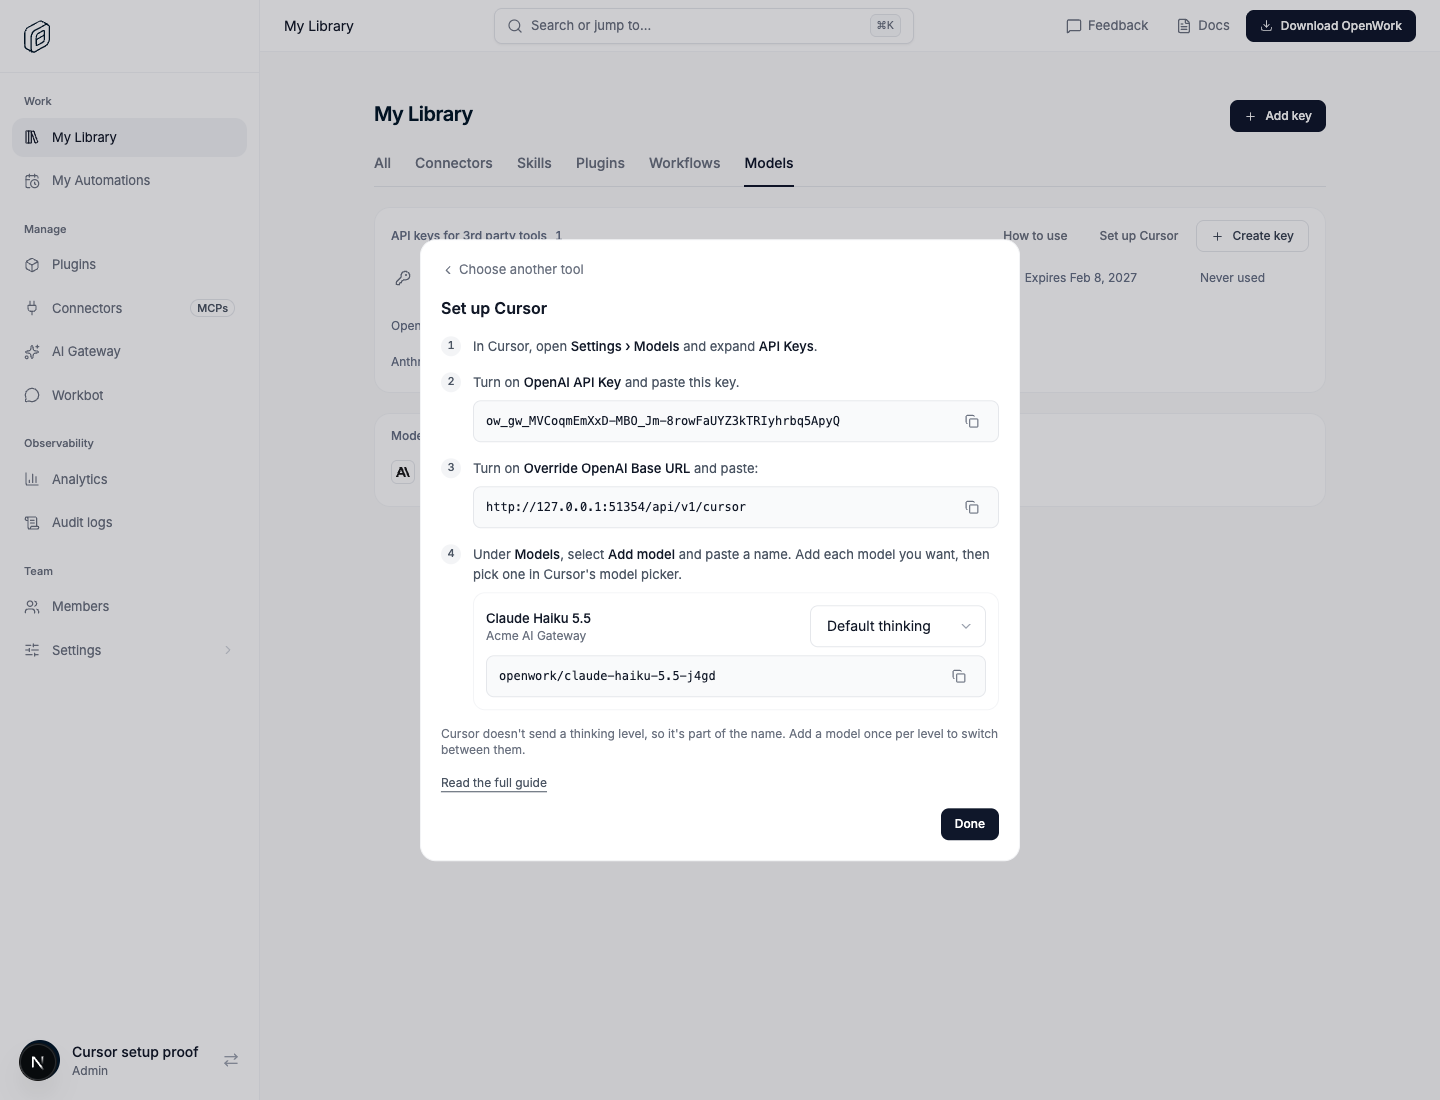
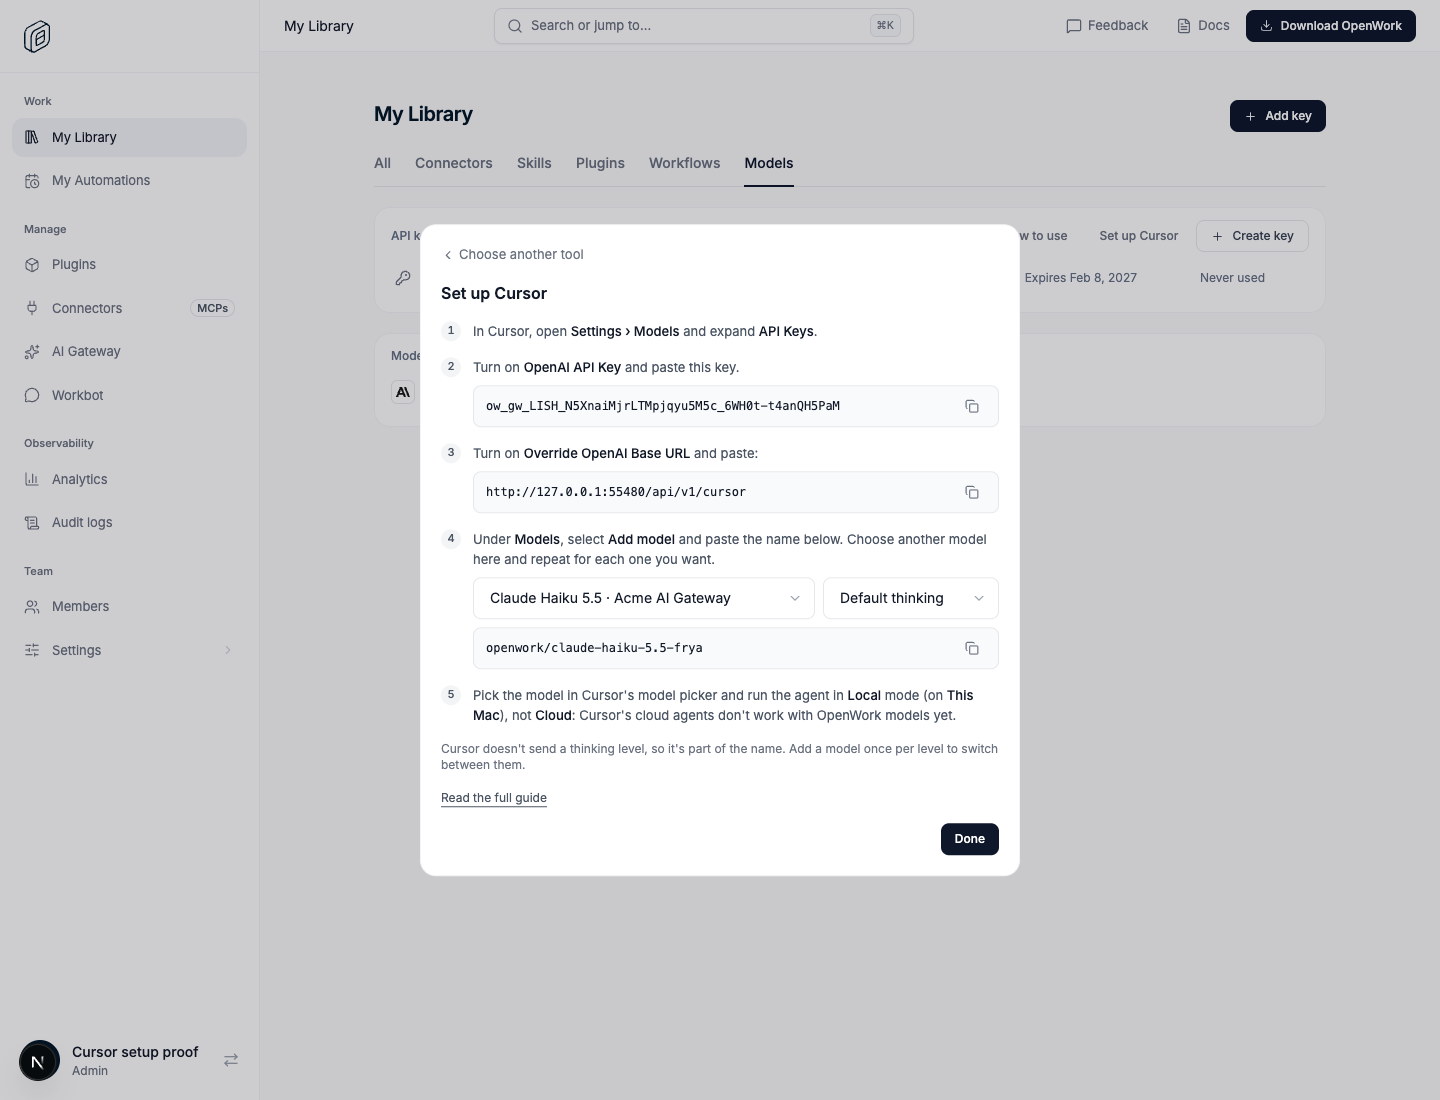
feat(den): pick a model from a dropdown in the tool steps; tell Cursor users to run locally
- Cursor and Another tool steps show one model dropdown (plus thinking level
  for Cursor) instead of a list of every model; the value to copy follows it.
- Cursor's steps and docs say to run the agent in Local mode (This Mac):
  Cursor's cloud agents don't work with OpenWork models yet.

Changed region(s): [[0.2812, 0.1855, 0.7188, 0.7418], [0.2812, 0.7109, 0.7188, 0.8036]]

diff --git a/ee/apps/den-web/app/(den)/dashboard/_components/gateway-tool-setup.tsx b/ee/apps/den-web/app/(den)/dashboard/_components/gateway-tool-setup.tsx
@@ -134,29 +134,34 @@ function ModelsState({ loading, error, empty }: { loading: boolean; error: Error
   return null;
 }
 
-/** One model with its Cursor name to copy, and a thinking level when the model has levels. */
-function CursorModelRow({ model }: { model: GatewayToolModel }) {
+/** Choose a model (and its thinking level, when it has levels); the name to copy follows the choice. */
+function CursorModelPicker({ models }: { models: readonly GatewayToolModel[] }) {
+  const [selected, setSelected] = useState<string | null>(null);
   const [thinking, setThinking] = useState<AutoRouterThinkingLevel>("default");
-  const name = cursorModelName({ name: model.name, modelId: model.modelId, thinking });
+  const model = models.find((entry) => entry.modelId === selected) ?? models[0] ?? null;
+  if (!model) return null;
+  const level = model.thinkingLevels.includes(thinking) ? thinking : "default";
+  const name = cursorModelName({ name: model.name, modelId: model.modelId, thinking: level });
   return (
-    <div className="flex flex-col gap-2 py-3 first:pt-0 last:pb-0" data-cursor-model={model.name}>
-      <div className="flex min-w-0 items-center justify-between gap-3">
-        <span className="min-w-0">
-          <span className="block truncate text-[13px] font-medium leading-5 text-gray-900">{model.name}</span>
-          <span className="block truncate text-[12px] leading-4 text-gray-500">{model.providerName}</span>
+    <div className="flex flex-col gap-2" data-cursor-model={model.name}>
+      <div className="flex flex-col gap-2 sm:flex-row">
+        <span className="min-w-0 flex-1">
+          <DenSelect value={model.modelId} aria-label="Model" onChange={(event) => setSelected(event.target.value)}>
+            {models.map((entry) => <option key={entry.modelId} value={entry.modelId}>{`${entry.name} · ${entry.providerName}`}</option>)}
+          </DenSelect>
         </span>
         {model.thinkingLevels.length > 1 ? (
-          <span className="w-44 shrink-0">
+          <span className="sm:w-44">
             <DenSelect
-              value={thinking}
-              aria-label={`Thinking level for ${model.name}`}
+              value={level}
+              aria-label="Thinking level"
               onChange={(event) => {
-                const level = autoRouterThinkingLevelSchema.safeParse(event.target.value);
-                if (level.success) setThinking(level.data);
+                const next = autoRouterThinkingLevelSchema.safeParse(event.target.value);
+                if (next.success) setThinking(next.data);
               }}
             >
-              {model.thinkingLevels.map((level) => (
-                <option key={level} value={level}>{level === "default" ? "Default thinking" : `${AUTO_ROUTER_THINKING_LABELS[level]} thinking`}</option>
+              {model.thinkingLevels.map((entry) => (
+                <option key={entry} value={entry}>{entry === "default" ? "Default thinking" : `${AUTO_ROUTER_THINKING_LABELS[entry]} thinking`}</option>
               ))}
             </DenSelect>
           </span>
@@ -185,13 +190,16 @@ export function CursorSteps({ apiKey, baseUrl, keyStep }: { apiKey: string | nul
         <SetupStep
           number={4}
           field={(
-            <div className="flex flex-col divide-y divide-gray-100 rounded-xl border border-gray-100 px-3 py-3" data-testid="cursor-setup-models">
+            <div className="flex flex-col gap-2" data-testid="cursor-setup-models">
               <ModelsState loading={models.isLoading} error={models.error} empty={models.data && list.length === 0 ? "Your organization hasn't given you any models yet." : null} />
-              {list.map((model) => <CursorModelRow key={model.modelId} model={model} />)}
+              <CursorModelPicker models={list} />
             </div>
           )}
         >
-          Under <Strong>Models</Strong>, select <Strong>Add model</Strong> and paste a name. Add each model you want, then pick one in Cursor&apos;s model picker.
+          Under <Strong>Models</Strong>, select <Strong>Add model</Strong> and paste the name below. Choose another model here and repeat for each one you want.
+        </SetupStep>
+        <SetupStep number={5}>
+          Pick the model in Cursor&apos;s model picker and run the agent in <Strong>Local</Strong> mode (on <Strong>This Mac</Strong>), not <Strong>Cloud</Strong>: Cursor&apos;s cloud agents don&apos;t work with OpenWork models yet.
         </SetupStep>
       </ol>
       <p className="text-[12px] leading-4 text-gray-500">Cursor doesn&apos;t send a thinking level, so it&apos;s part of the name. Add a model once per level to switch between them.</p>
@@ -318,16 +326,13 @@ export function OtherToolSteps({ apiKey, baseUrl }: { apiKey: string | null; bas
           field={(
             <div className="flex flex-col gap-2">
               <ModelsState loading={models.isLoading} error={models.error} empty={models.data && list.length === 0 ? "Your organization hasn't given you any models yet." : null} />
-              {list.map((model) => (
-                <div key={model.alias} className="flex flex-col gap-1">
-                  <span className="text-[12px] text-gray-500">{`${model.name} · ${model.providerName}`}</span>
-                  <CopyField value={model.alias} label={`Copy the model id for ${model.name}`} />
-                </div>
-              ))}
+              <ModelSnippet models={list} loading={false} error={null} empty="">
+                {(model) => model ? <CopyField value={model.alias} label={`Copy the model id for ${model.name}`} testId="gateway-tool-model-id" /> : null}
+              </ModelSnippet>
             </div>
           )}
         >
-          Use one of these as the model:
+          Choose a model and use its id as the model:
         </SetupStep>
       </ol>
       <DocsLink href={GATEWAY_API_KEYS_DOCS_URL} />

diff --git a/evals/proofs/gateway-cursor-setup.proof.test.ts b/evals/proofs/gateway-cursor-setup.proof.test.ts
@@ -52,7 +52,12 @@ test("a member creates a key, picks Cursor under Start using this key, and Curso
     await user.see({ testId: "cursor-model-name" }, { timeoutMs: 30_000 });
     const shownKey = (await probe.dom('[data-testid="gateway-tool-api-key"]')).elements[0]?.text ?? "";
     baseUrl = (await probe.dom('[data-testid="cursor-setup-base-url-value"]')).elements[0]?.text ?? "";
-    modelName = (await probe.dom('[data-testid="cursor-model-name"]')).elements[0]?.text ?? "";
+    const names = (await probe.dom('[data-testid="cursor-model-name"]')).elements;
+    modelName = names[0]?.text ?? "";
+    // One name to copy, for the model chosen in the dropdown, and the Local mode note.
+    expect(names).toHaveLength(1);
+    await user.see({ role: "button", label: "Model" });
+    await user.see({ text: /run the agent in Local mode/ });
     evidence.recordAssertionEvidence("what the member pastes into Cursor", `key matches=${shownKey === key}; base URL ${baseUrl}; model name ${modelName}`, shownKey === key && baseUrl === `${world.gatewayUrl}/api/v1/cursor` && /^openwork\/[a-z0-9.-]+-[0-9a-z]{4}$/.test(modelName));
     expect(shownKey).toBe(key);
     expect(baseUrl).toBe(`${world.gatewayUrl}/api/v1/cursor`);

diff --git a/docs/features/gateway-cursor-setup/README.md b/docs/features/gateway-cursor-setup/README.md
@@ -54,15 +54,17 @@ copy button; **Choose another tool** goes back.
 
 ![Start using this key](./start-using-key.png)
 
-- **Cursor:** the key, the base URL, and every model's Cursor name to copy,
-  with a thinking level for models that have levels.
+- **Cursor:** the key, the base URL, then a model (and thinking level, for
+  models that have levels) to choose from a dropdown, with its Cursor name to
+  copy. The last step says to run the agent in Local mode (This Mac), not Cloud.
 - **OpenAI Codex:** the key line for the shell, and a `~/.codex/config.toml`
   provider (`wire_api = "responses"`) for the model chosen. Only OpenAI and
   Azure models are offered: Codex calls the provider-less Responses endpoint.
 - **Claude Code:** `ANTHROPIC_BASE_URL`, `ANTHROPIC_AUTH_TOKEN` and the model
   variables for the model chosen. Only Anthropic, Vertex Claude and Foundry
   models are offered.
-- **Another tool:** the key, both base URLs and every model id.
+- **Another tool:** the key, both base URLs, and a model to choose with its id
+  to copy.
 
 ![Cursor's steps](./cursor-steps.png)
 
@@ -122,16 +124,13 @@ turned back on.
 - `gateway_request_logs` rows with `gateway_api_key_id` set carry Cursor's
   traffic like any other 3rd party tool; the requested model is the `gwm_` alias.
 
-## Not checked yet
+## Checked with a real Cursor
 
-Not yet called by a real Cursor. Tried on 2026-11-10 with Cursor 3.29.15
-pointed at a Gateway on `127.0.0.1`: Cursor answered "The AI model you
-selected isn't available" and no request reached the Gateway, which confirms
-Cursor calls the base URL from its own servers. A test needs a Gateway on a
-public HTTPS URL. Check there: which API Cursor uses for which model (Chat
-Completions or Responses), the body it sends (this assumes Chat Completions with flat
-tools), what its key verification calls, and that it accepts `/` and `:` in a
-model name.
+On 2026-11-10 a real Cursor answered through `openwork/gpt-5.6-luna-zp1h` on
+production in **Local** mode (This Mac). Cursor's **Cloud** agents still fail
+with OpenWork models, so the steps and the public docs tell people to use
+Local. Still to look into: why Cloud agents fail, and whether Cursor uses Chat
+Completions or Responses for each model.
 
 ## Proof
 
